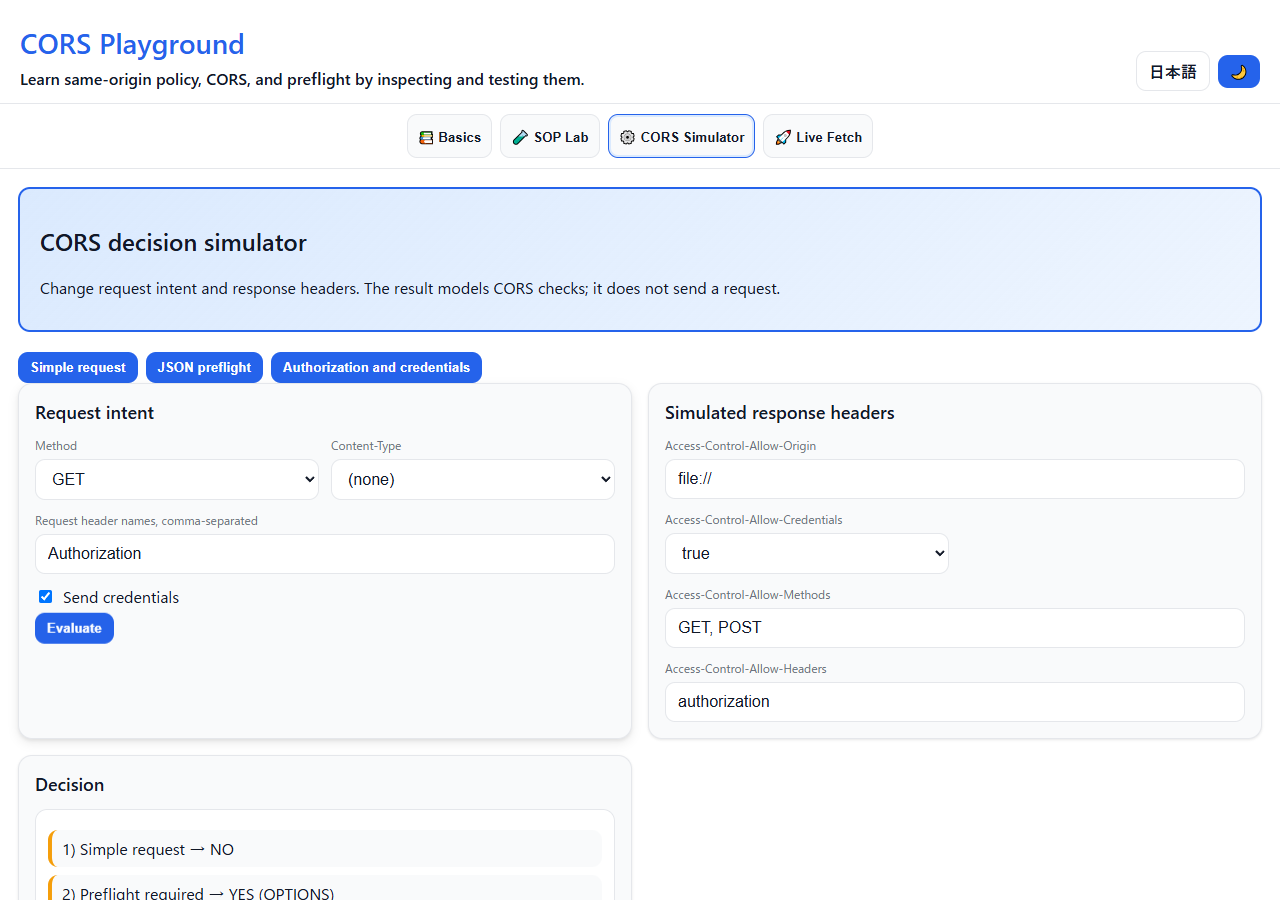
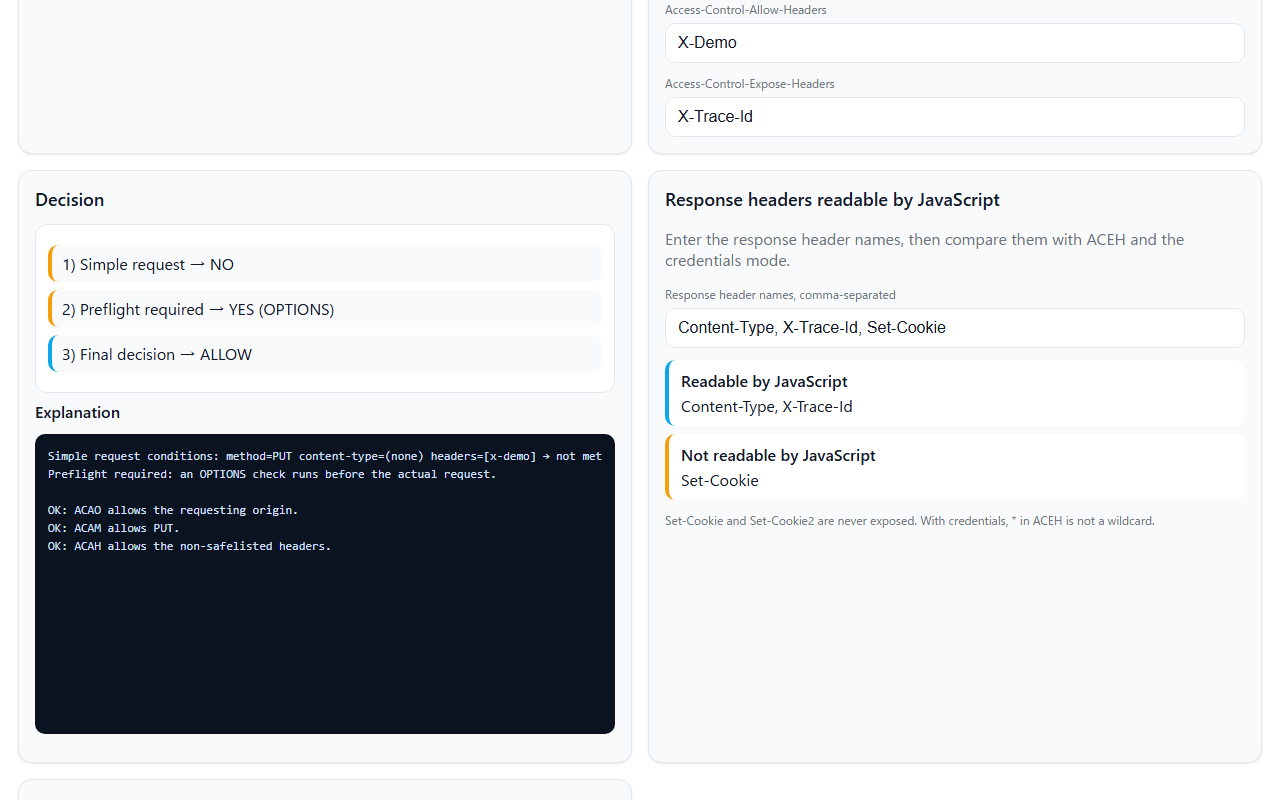
段階4: 日英文書とスクリーンショットを更新

diff --git a/test/readme.test.js b/test/readme.test.js
@@ -55,6 +55,11 @@ test('limits and diagnostic boundaries are equally documented', () => {
     assert.match(markdown, /TLS/);
     assert.match(markdown, /X-Content-Type-Options/);
     assert.match(markdown, /Permissions-Policy/);
+    assert.match(markdown, /Access-Control-Max-Age/);
+    assert.match(markdown, /Set-Cookie2/);
+    assert.match(markdown, /sessionStorage/);
+    assert.match(markdown, /Live Fetch/);
+    assert.match(markdown, /postMessage/);
   }
 });
 

diff --git a/README.md b/README.md
@@ -62,7 +62,7 @@ hub: true
 ## 📸 スクリーンショット
 
 >![CORS判定シミュレーター](assets/screenshot.png)
->*プリフライト要否と最終判定を根拠付きで表示*
+>*プリフライト判定と、ACEHによるレスポンスヘッダーの公開範囲を根拠付きで表示*
 >
 >![CSPで許可されていない接続先の説明](assets/screenshot2.png)
 >*CSPによる事前拒否をCORSエラーと区別*
@@ -132,6 +132,11 @@ hub: true
   - 実験結果の比較まとめ表を提供
 - **入力フォーム**：メソッド、ヘッダー、Content-Type、Credentialsを自由に指定可能
 - **判定結果**：シンプルリクエスト判定 → プリフライト要否 → 最終可否を **フローチャート形式** で視覚化
+- **レスポンスヘッダー公開判定**：CORS safelisted response-headerとACEHから、JavaScriptで読める名前を確認
+  - `Set-Cookie`と`Set-Cookie2`はACEHへ列挙しても公開しない
+- **プリフライトキャッシュモデル**：`Access-Control-Max-Age`と2回目の要求時刻を時間軸で比較
+- **共有リンク**：秘密値を含まないシミュレーター条件をURLフラグメントで共有し、同じ結果まで自動復元
+- **言語切替の状態保持**：安全なシミュレーター入力、選択タブ、折りたたみ状態だけを同一タブの`sessionStorage`で一時保持
 - 各判定結果には詳細な根拠説明が表示される
 
 ### 4. **Live Fetch Lab**
@@ -156,6 +161,8 @@ hub: true
 | Cookieを伴うリクエスト | `withCredentials: true` 時の `ACAC` 必須条件を体験 |
 | ワイルドカードの罠 | `ACAO: *` と `withCredentials: true` の併用禁止を確認 |
 | メソッド不一致 | `DELETE` 送信時、`ACAM: GET, POST` のレスでブロックされる例を観察 |
+| ACEHのワイルドカード | 資格情報なし／ありで、`ACEH: *`から読めるレスポンスヘッダーが変わることを比較 |
+| プリフライトキャッシュ | Max-Ageの期限内・期限ちょうど・条件変更で、2回目のOPTIONSモデルが変わることを比較 |
 
 ---
 
@@ -324,6 +331,7 @@ hub: true
 - ユーザー入力と動的な説明は`textContent`とDOM APIで挿入
 - 既存表示の消去は`replaceChildren()`を使用
 - 入力値の検証とエスケープを実装
+- 共有フラグメントはバージョン、総長、許可キー、型、列挙値、文字数、数値範囲を検査
 
 #### 3. **URL検証（ライブFetch機能）**
 - 安全でないURLスキーム（`file:`, `javascript:`, `data:`等）を自動的にブロック
@@ -342,9 +350,11 @@ hub: true
 - 実際のWebアプリケーションに対する無許可のテストは違法です
 
 #### 🔍 プライバシーへの配慮
-- このツールはユーザーデータを収集・保存しません
+- このツールは入力を運営者のサーバーへ収集・送信しません
 - すべての処理はブラウザー内（クライアントサイド）で完結します
 - 外部サーバーへのリクエストは、ユーザーが明示的に実行した場合のみ送信されます
+- テーマと言語は`localStorage`に保存します。言語切替時は、安全なシミュレーター条件、選択タブ、折りたたみ状態だけを`sessionStorage`へ一時保存し、復元時に削除します
+- 共有リンクにはシミュレーター条件がURLフラグメントとして含まれます。Live FetchのURL・追加ヘッダー値・本文・ログ、postMessageの入力・ログは、共有リンクにも言語切替用の保存にも含めません
 
 #### 🛡 ライブFetch機能の責任ある使用
 ライブFetchタブでは、`connect-src`で許可した3つの外部オリジンと同一オリジンだけにリクエストを送信できます。
@@ -358,6 +368,7 @@ hub: true
 - 対象サーバーへ本リクエストが到達したことを証明すること
 - サーバー設定や認可の安全性を監査すること
 - DevToolsやサーバーログを使わず、実際のOPTIONS応答を確認すること
+- プリフライトキャッシュの実際の上限、早期削除、OPTIONS省略を証明すること
 
 #### 📋 セキュリティ問題の報告
 もしセキュリティ上の問題を発見された場合は、GitHubのIssuesから報告してください。

diff --git a/README.en.md b/README.en.md
@@ -25,7 +25,7 @@ At the root URL, the initial language follows `?lang=ja|en`, a saved choice, and
 ## 📸 Screenshots
 
 >![CORS decision simulator](assets/en/screenshot.png)
->*A preflight estimate and final decision with reasons*
+>*A reasoned preflight decision and ACEH response-header exposure result*
 >
 >![CSP destination restriction](assets/en/screenshot2.png)
 >*A CSP block identified before it can be mistaken for CORS*
@@ -71,6 +71,11 @@ The simulator is an educational model, not a scanner or proof of server-side beh
 - Evaluates method, complete request-header values, credentials, and simulated response headers.
 - Supports `Range`, the 128-byte per-value rule, the 1,024-byte combined safelist rule, and wildcard behavior for ACAM and ACAH.
 - Treats `Authorization` as a non-wildcard request-header name.
+- Separates response headers readable by JavaScript using the response-header safelist and ACEH, including the credentials wildcard rule.
+  - `Set-Cookie` and `Set-Cookie2` remain forbidden even when listed in ACEH.
+- Models a second request against `Access-Control-Max-Age` on a timeline; this is not a browser measurement.
+- Creates versioned fragment share links from safe simulator conditions and automatically restores the same result.
+- Keeps only safe simulator inputs, the selected tab, and disclosure state in same-tab `sessionStorage` during a language switch.
 
 ### 4. **Live Fetch Lab**
 
@@ -89,6 +94,8 @@ The simulator is an educational model, not a scanner or proof of server-side beh
 | Authorization | Explicit ACAH permission is required; `ACAH: *` does not match Authorization |
 | Credentialed request | Exact ACAO and case-sensitive `ACAC: true` are required |
 | CSP-restricted URL | The request is stopped before CORS is evaluated |
+| ACEH wildcard | Compare readable response headers with and without credentials |
+| Preflight cache | Compare a second request before expiry, at expiry, and after match conditions change |
 
 ---
 
@@ -159,6 +166,7 @@ A credentialed CORS request cannot use `Access-Control-Allow-Origin: *`. It requ
 - The iframe documents also use CSP: the same-origin frame loads an external handler, while the sandbox runs only a fixed hash-authorized handler.
 - Dynamic output uses `textContent`, DOM creation, and `replaceChildren()`.
 - URL validation accepts only HTTP(S), then checks the origin against the CSP allowlist.
+- Shared fragments validate the version, total length, allowed keys, types, enums, string lengths, and numeric ranges.
 - The referrer policy is `strict-origin-when-cross-origin`.
 
 `X-Content-Type-Options`, `Permissions-Policy`, and `X-Frame-Options` are HTTP response headers. They are not implemented through ineffective meta elements. Likewise, `frame-ancestors` is ignored in a meta-delivered CSP.
@@ -166,10 +174,13 @@ A credentialed CORS request cannot use `Access-Control-Allow-Origin: *`. It requ
 ### Usage limits
 
 - Live requests are sent only after the user presses Run.
-- This tool does not collect or persist experiment data.
+- This tool does not send inputs to an operator-controlled collection service.
+- Theme and language are stored in `localStorage`. During a language switch, safe simulator conditions, the selected tab, and disclosure state are stored temporarily in `sessionStorage` and removed when restored.
+- A share link contains simulator conditions in its URL fragment. Live Fetch URLs, additional header values, bodies, and logs, as well as postMessage inputs and logs, are excluded from both sharing and language-switch storage.
 - It cannot prove that an actual request reached a server.
 - It cannot distinguish CORS, DNS, TLS, offline, and other network failures from a Fetch API `TypeError` alone.
 - It does not audit authentication, authorization, or the security of a production server.
+- The preflight cache timeline cannot prove an implementation's cap, early eviction, or actual omission of OPTIONS.
 
 Use DevTools and server-side evidence, and test only systems you are authorized to access.
 

diff --git a/CLAUDE.md b/CLAUDE.md
@@ -73,6 +73,9 @@ The application is organized into four tabs, providing a progressive learning pa
      - `withCredentials=true` requires `Access-Control-Allow-Credentials: true`
      - Non-safe methods must be in `Access-Control-Allow-Methods`
      - Non-safe headers must be in `Access-Control-Allow-Headers`
+   - Evaluates CORS-safelisted response headers and `Access-Control-Expose-Headers`, including credentials and forbidden response-header names
+   - Models `Access-Control-Max-Age` for a second matching request, while explicitly treating the timeline as educational rather than observed browser state
+   - Creates versioned share fragments from an allowlisted schema and restores the evaluated result
    - Renders visual flow diagram showing decision steps
 
 4. **Live Fetch Lab** (`js/live-fetch.js`)
@@ -92,6 +95,8 @@ The application is organized into four tabs, providing a progressive learning pa
 - Theme toggle (light/dark mode) with localStorage persistence (key: `'corspg-theme'`)
 - Accordion toggle for collapsible content sections
 - Help panel toggle for contextual explanations
+- Language switching temporarily preserves the selected tab, disclosure state, and safe simulator scenario in sessionStorage
+- Live Fetch values, bodies, logs, and postMessage values are never included in shared or language-switch state
 
 ### CORS Validation Logic
 
@@ -200,6 +205,13 @@ function needsPreflight(method, headers) {
     || unsafeRequestHeaderNames(headers).length > 0;
 }
 ```
+
+### Response Header Exposure and Shared State
+
+- `responseHeaderExposure()` applies the response-header safelist, ACEH, the credentials wildcard rule, and the forbidden `Set-Cookie` / `Set-Cookie2` names.
+- `modelPreflightCache()` shows a two-request educational timeline. It does not claim to observe a browser's cache.
+- `encodeScenario()` and `decodeScenario()` use a versioned, length-limited, allowlisted fragment schema.
+- Language-switch state uses the same normalized simulator schema and is consumed from sessionStorage after navigation.
 
 ### Error Handling in Live Fetch
 

diff --git a/TECHNICAL.md b/TECHNICAL.md
@@ -169,6 +169,18 @@ if(nonSafeReqHeaders.length>0){
 - 判定関数はDOMを参照せず、引数だけから結果を返す
 - **差分検出**: リクエストヘッダーと許可ヘッダーの差分を計算
 
+### 2.3 レスポンスヘッダー公開判定
+
+`responseHeaderExposure()`は、レスポンスに存在するヘッダー名を、JavaScriptから読めるものと読めないものへ分けます。`Cache-Control`、`Content-Language`、`Content-Length`、`Content-Type`、`Expires`、`Last-Modified`、`Pragma`はCORS safelisted response-headerとして扱います。
+
+ACEHの`*`は資格情報なしの場合だけワイルドカードです。資格情報付きでは文字どおり`*`という名前だけに一致します。`Set-Cookie`と`Set-Cookie2`はforbidden response-header nameのため、明示的に列挙しても公開しません。ACEHの構文が無効な場合は、セーフリスト以外を公開しません。
+
+### 2.4 プリフライトキャッシュと共有状態
+
+`modelPreflightCache()`は、Max-Ageと2回目の要求時刻を使い、同じ照合条件を仮定した2イベントの時間軸を返します。Fetch標準のキャッシュキーにはnetwork partition key、origin、URL、credentials、method、header nameが関係します。実装による上限や期限前の削除があるため、この関数はOPTIONSの実測結果を表しません。
+
+共有リンクは`#cors=v1.<base64url(JSON)>`形式です。`normalizeScenario()`が許可キー、型、列挙値、長さ、数値範囲を検査し、未知キーを拒否します。共有と言語切替の一時保存は同じ安全なシナリオだけを使用し、Live FetchとpostMessageの値・本文・ログを含めません。動的な復元結果は既存の描画関数を呼び直して生成します。
+
 ---
 
 ## 3. セキュリティ実装
